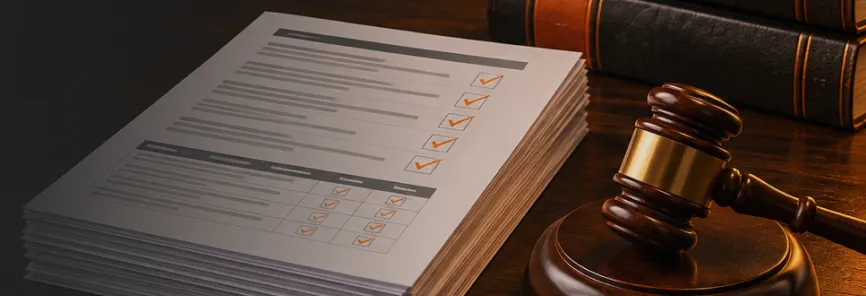
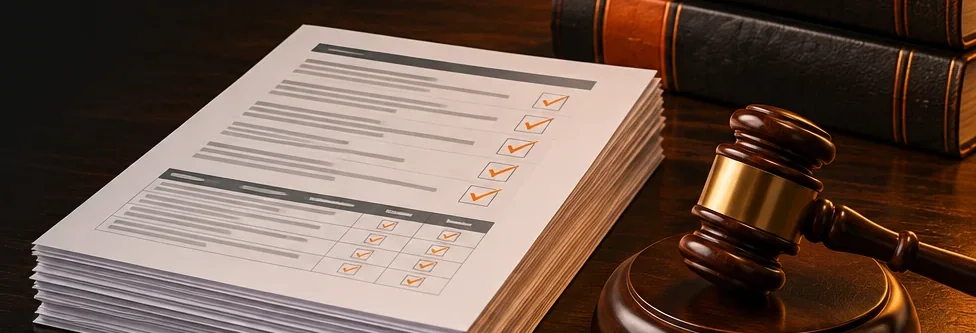
Разработка ТЗ: новое фото в блоке «Результат»

diff --git a/razrabotka-tz.html b/razrabotka-tz.html
@@ -192,7 +192,7 @@
   <section class="section">
     <div class="container">
       <h2 class="h2">Результат: готовое ТЗ для закупки</h2>
-      <div class="sv-panel sv-panel--photo sv-panel--wide" style="margin-top:40px"><img class="sv-panel__img" src="img/svc/t-res.webp?v=2" alt="" loading="lazy">
+      <div class="sv-panel sv-panel--photo sv-panel--wide" style="margin-top:40px"><img class="sv-panel__img" src="img/svc/t-res.webp?v=3" alt="" loading="lazy">
         <ul class="sv-checks">
             <li>Чёткие и измеримые требования</li>
             <li>Минимизация рисков отклонения заявок</li>
